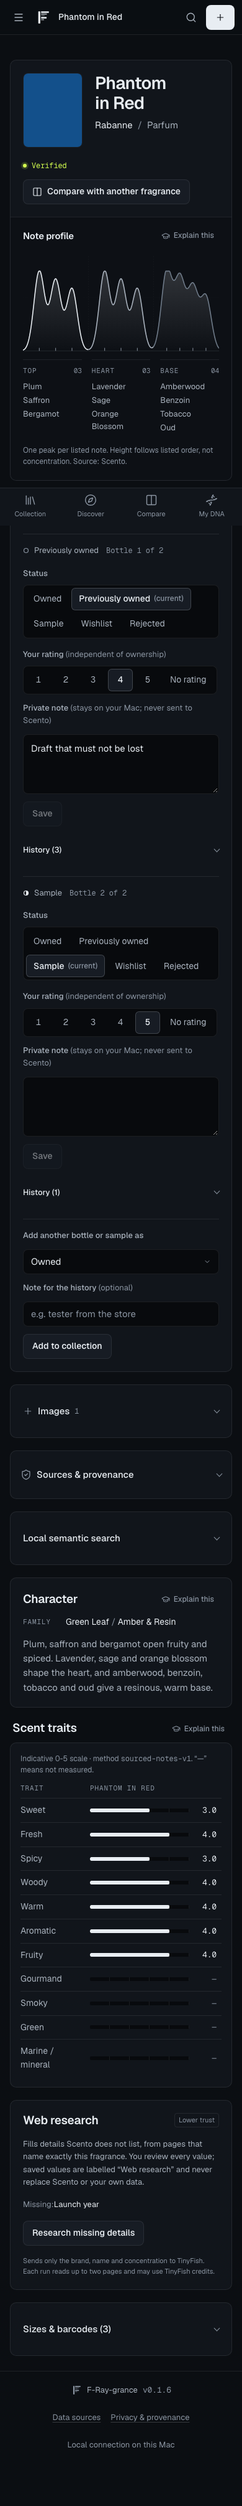
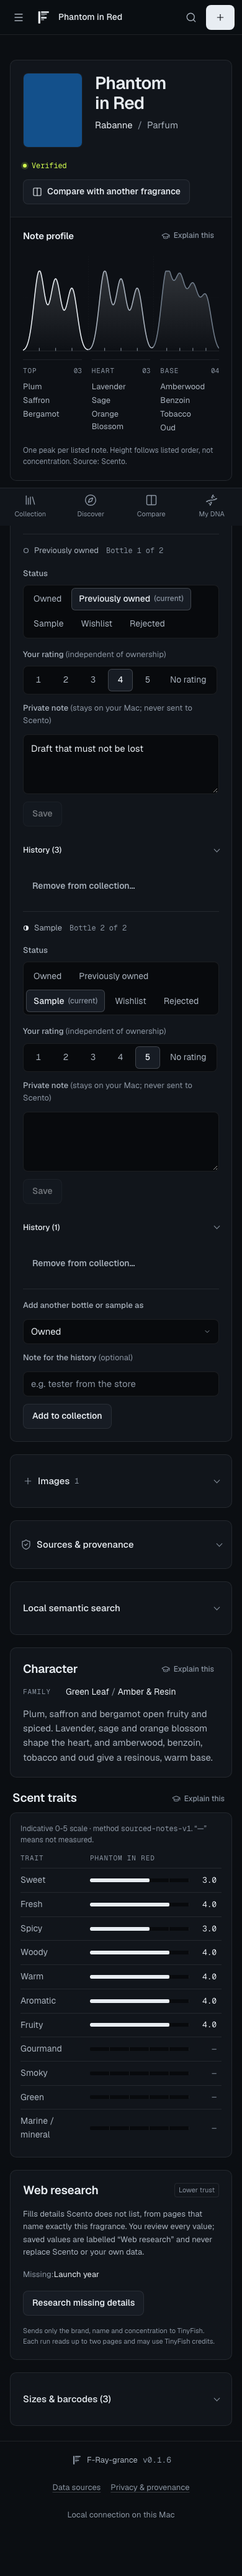
fray: remove a perfume from the collection (previewed, confirmed, logged)

diff --git a/apps/api/test/removal.test.ts b/apps/api/test/removal.test.ts
@@ -1,0 +1,82 @@
+// Owner-requested permanent removal of a collection entry: previewed, confirmed, logged; history
+// stays append-only for every other path.
+import { afterAll, beforeAll, describe, expect, it } from 'vitest';
+import type { FastifyInstance } from 'fastify';
+import { buildApp } from '../src/app.js';
+import { createSession, CSRF_COOKIE, SESSION_COOKIE } from '../src/security/sessions.js';
+import { createFragrance, upsertBrand } from '../src/repo/catalog.js';
+import { createEntry, transitionEntry } from '../src/repo/collection.js';
+import type { RotatingPool } from '../src/db/pool.js';
+import { EXPECTED_SCHEMA_VERSION, runtimePool, seedOwner, sessionKey, testConfig, uniq } from './helpers.js';
+
+describe('collection entry removal', () => {
+  let app: FastifyInstance;
+  let rp: RotatingPool;
+  const { key } = sessionKey();
+  let owner: string;
+  let other: string;
+  let H: Record<string, string>;
+  let O: Record<string, string>;
+  let frag: string;
+  const headersFor = async (o: string) => {
+    const s = await createSession(rp.get(), key, o, 1);
+    return { cookie: `${SESSION_COOKIE}=${s.token}; ${CSRF_COOKIE}=${s.csrfToken}`, origin: 'http://localhost:8470', 'x-csrf-token': s.csrfToken };
+  };
+
+  beforeAll(async () => {
+    rp = await runtimePool();
+    app = await buildApp({ config: testConfig(), pool: rp, key, expectedSchemaVersion: EXPECTED_SCHEMA_VERSION, logger: false });
+    owner = await seedOwner(rp.get());
+    other = await seedOwner(rp.get());
+    H = await headersFor(owner);
+    O = await headersFor(other);
+    const brand = await upsertBrand(rp.get(), uniq('Removal House'));
+    frag = await createFragrance(rp.get(), { brandId: brand, name: uniq('Mistake'), concentration: 'parfum', identityStatus: 'verified' });
+  });
+  afterAll(async () => {
+    await app.close();
+    await rp.close();
+  });
+
+  it('previews, requires confirmation, refuses other owners, then removes entry + history and logs counts only', async () => {
+    const e = await createEntry(rp.get(), owner, { fragranceId: frag, state: 'sampled', rating: 4, personalNote: 'private words' });
+    await transitionEntry(rp.get(), owner, e.id, 'owned', 'bought it');
+    const keep = await createEntry(rp.get(), owner, { fragranceId: frag, state: 'wishlist' }); // another bottle stays
+    const ex = (await rp.get().query("INSERT INTO app.training_exercises (owner_id, entry_id, title) VALUES ($1, $2, 'blotter') RETURNING id", [owner, e.id])).rows[0].id;
+
+    const preview = await app.inject({ method: 'GET', url: `/api/v1/collection/${e.id}/removal-preview`, headers: H });
+    expect(preview.json()).toEqual({ state: 'owned', events: 2, hasRating: true, hasNote: true, practice: 1 });
+    expect((await app.inject({ method: 'GET', url: `/api/v1/collection/${e.id}/removal-preview`, headers: O })).statusCode).toBe(404);
+    expect((await app.inject({ method: 'DELETE', url: `/api/v1/collection/${e.id}`, headers: H, payload: {} })).statusCode).toBe(400);
+    expect((await app.inject({ method: 'DELETE', url: `/api/v1/collection/${e.id}`, headers: O, payload: { confirm: 'REMOVE' } })).statusCode).toBe(404);
+    expect((await app.inject({ method: 'DELETE', url: `/api/v1/collection/${e.id}`, headers: { cookie: H.cookie!, origin: H.origin! }, payload: { confirm: 'REMOVE' } })).statusCode).toBe(403); // CSRF
+
+    const del = await app.inject({ method: 'DELETE', url: `/api/v1/collection/${e.id}`, headers: H, payload: { confirm: 'REMOVE' } });
+    expect(del.json()).toEqual({ removed: true, summary: { state: 'owned', events: 2, hasRating: true, hasNote: true, practice: 1 } });
+    const q = (sql: string, args: unknown[]) => rp.get().query(sql, args).then((r) => r.rows);
+    expect(await q('SELECT 1 FROM app.collection_entries WHERE id = $1', [e.id])).toEqual([]);
+    expect(await q('SELECT 1 FROM app.collection_events WHERE entry_id = $1', [e.id])).toEqual([]);
+    expect(await q('SELECT entry_id FROM app.training_exercises WHERE id = $1', [ex])).toEqual([{ entry_id: null }]); // kept as generic practice
+    expect((await q('SELECT 1 FROM app.collection_entries WHERE id = $1', [keep.id])).length).toBe(1);
+    const log = await q('SELECT kind, fragrance_id, subject_id, summary FROM app.deletion_log WHERE owner_id = $1', [owner]);
+    expect(log).toEqual([{ kind: 'collection_entry', fragrance_id: frag, subject_id: e.id, summary: { state: 'owned', events: 2, hasRating: true, hasNote: true, practice: 1 } }]);
+    expect(JSON.stringify(log)).not.toContain('private words');
+    expect((await app.inject({ method: 'DELETE', url: `/api/v1/collection/${e.id}`, headers: H, payload: { confirm: 'REMOVE' } })).statusCode).toBe(404);
+  });
+
+  it('history stays append-only for the runtime login, even if it sets the exemption itself', async () => {
+    const e = await createEntry(rp.get(), owner, { fragranceId: frag, state: 'owned' });
+    await expect(rp.get().query('DELETE FROM app.collection_events WHERE entry_id = $1', [e.id])).rejects.toThrow(/append-only/);
+    const c = await rp.get().connect();
+    try {
+      await c.query('BEGIN');
+      await c.query("SELECT set_config('fray.removing_entry', $1, true)", [e.id]);
+      await expect(c.query('DELETE FROM app.collection_events WHERE entry_id = $1', [e.id])).rejects.toThrow(/append-only/);
+      await c.query('ROLLBACK');
+    } finally {
+      c.release();
+    }
+    await expect(rp.get().query("INSERT INTO app.deletion_log (owner_id, kind, subject_id, summary) VALUES ($1, 'collection_entry', $1, '{}')", [owner])).rejects.toThrow(/permission denied/);
+    expect((await rp.get().query('SELECT count(*)::int AS n FROM app.collection_events WHERE entry_id = $1', [e.id])).rows[0].n).toBe(1);
+  });
+});

diff --git a/apps/web/app/components/collection/RemoveEntry.vue b/apps/web/app/components/collection/RemoveEntry.vue
@@ -1,0 +1,65 @@
+<script setup lang="ts">
+// Permanent removal of one collection entry: preview first (what goes, what stays), then an
+// explicit "Remove permanently". Suggests "Previously owned" when history should be kept.
+import type { CollectionEntry } from '~~/shared/types';
+import { STATE_LABEL } from '~~/shared/types';
+
+const props = defineProps<{ entry: CollectionEntry; name: string }>();
+const emit = defineEmits<{ removed: [] }>();
+interface Preview { state: keyof typeof STATE_LABEL; events: number; hasRating: boolean; hasNote: boolean; practice: number }
+const preview = ref<Preview | null>(null);
+const busy = ref(false);
+const message = ref('');
+
+async function open() {
+  message.value = '';
+  try {
+    preview.value = await apiFetch<Preview>(`/api/v1/collection/${props.entry.id}/removal-preview`);
+    await nextTick();
+    document.getElementById(`remove-${props.entry.id}`)?.focus();
+  } catch (e) {
+    message.value = e instanceof ApiFailure ? e.message : 'Could not prepare the removal.';
+  }
+}
+async function remove() {
+  busy.value = true;
+  try {
+    await apiFetch(`/api/v1/collection/${props.entry.id}`, { method: 'DELETE', body: { confirm: 'REMOVE' } });
+    preview.value = null;
+    emit('removed');
+  } catch (e) {
+    message.value = e instanceof ApiFailure ? `Not removed: ${e.message}` : 'Not removed.';
+  } finally {
+    busy.value = false;
+  }
+}
+const goes = computed(() => {
+  const p = preview.value;
+  if (!p) return [];
+  return [
+    `this ${STATE_LABEL[p.state].toLowerCase()} entry`,
+    `its status history (${p.events} ${p.events === 1 ? 'change' : 'changes'})`,
+    ...(p.hasRating ? ['your rating'] : []),
+    ...(p.hasNote ? ['your private note'] : []),
+  ];
+});
+</script>
+
+<template>
+  <div class="flex flex-col gap-2">
+    <button v-if="!preview" type="button" class="btn btn-ghost h-8 min-h-0 self-start px-2.5 text-[13px] text-ink-3 hover:text-bad" @click="open">Remove from collection…</button>
+    <div v-else :id="`remove-${entry.id}`" tabindex="-1" role="group" :aria-label="`Remove ${name} from your collection`" class="flex flex-col gap-3 rounded-control border border-bad/60 p-3 focus:outline-none" data-testid="remove-preview">
+      <p class="m-0 text-[14px] font-medium">Remove {{ name }} permanently?</p>
+      <p class="m-0 text-[13px] text-ink-2">This deletes {{ goes.join(', ') }}. It cannot be undone, except by restoring a backup.</p>
+      <p class="m-0 text-[13px] text-ink-2">
+        Stays: the fragrance in your library, its images and season choices<template v-if="preview.practice">, and {{ preview.practice }} practice {{ preview.practice === 1 ? 'exercise' : 'exercises' }} (kept as generic blotter practice)</template>.
+      </p>
+      <p v-if="preview.state === 'owned'" class="m-0 text-[12px] text-ink-3">Sold it or gave it away? Choose “Previously owned” above instead to keep its history.</p>
+      <div class="flex flex-wrap gap-2">
+        <button type="button" class="btn btn-quiet text-bad" :disabled="busy" @click="remove">{{ busy ? 'Removing…' : 'Remove permanently' }}</button>
+        <button type="button" class="btn btn-ghost" :disabled="busy" @click="preview = null">Cancel</button>
+      </div>
+    </div>
+    <p v-if="message" role="status" class="m-0 text-[13px] text-bad">{{ message }}</p>
+  </div>
+</template>

diff --git a/apps/web/e2e/removal.spec.ts b/apps/web/e2e/removal.spec.ts
@@ -1,0 +1,36 @@
+// Removing a fragrance from the collection: previewed, cancellable, then permanent; the fragrance
+// itself stays in the library.
+import { test, expect } from '@playwright/test';
+import { axe, login } from './helpers';
+
+test('remove a collection entry: preview, cancel, then remove permanently', async ({ page }) => {
+  await page.setViewportSize({ width: 1280, height: 900 });
+  await login(page);
+  const csrf = (await page.context().cookies()).find((c) => c.name === '__Host-fray_csrf')!.value;
+  const catalog = await (await page.request.get('/api/v1/fragrances?limit=100')).json();
+  const layton = catalog.items.find((x: { canonical_name: string }) => x.canonical_name === 'Layton');
+  const created = await page.request.post('/api/v1/collection', {
+    headers: { origin: 'http://localhost:8470', 'x-csrf-token': csrf },
+    data: { fragranceId: layton.id, state: 'wishlist', clientRequestId: crypto.randomUUID() },
+  });
+  expect(created.ok()).toBe(true);
+  const entryId = (await created.json()).entry.id;
+  await page.goto(`/fragrances/${layton.id}`);
+  const before = (await (await page.request.get(`/api/v1/fragrances/${layton.id}/relationship`)).json()).entries.length;
+  const entries = page.getByRole('region', { name: 'Your collection' }).getByRole('article');
+  const target = entries.filter({ hasText: 'Wishlist' }).last();
+  await target.getByRole('button', { name: 'Remove from collection…' }).click();
+  const preview = target.getByTestId('remove-preview');
+  await expect(preview).toContainText('Remove Layton permanently?');
+  await expect(preview).toContainText('status history');
+  await axe(page, 'removal preview');
+  await preview.getByRole('button', { name: 'Cancel' }).click();
+  await expect(target.getByTestId('remove-preview')).toHaveCount(0);
+  await target.getByRole('button', { name: 'Remove from collection…' }).click();
+  await target.getByTestId('remove-preview').getByRole('button', { name: 'Remove permanently' }).click();
+  await expect(page.getByText('Removed from your collection. The fragrance stays in your library.')).toBeVisible();
+  const after = (await (await page.request.get(`/api/v1/fragrances/${layton.id}/relationship`)).json()).entries;
+  expect(after.length).toBe(before - 1);
+  expect(after.some((e: { id: string }) => e.id === entryId)).toBe(false);
+  await expect(page.getByRole('heading', { level: 1, name: 'Layton' })).toBeVisible(); // still in the library
+});

diff --git a/apps/web/app/pages/fragrances/[id].vue b/apps/web/app/pages/fragrances/[id].vue
@@ -25,6 +25,11 @@ function onUpdated(e: CollectionEntry) {
 async function onAdded() {
   await loadRelationship();
 }
+const removedNote = ref('');
+async function onRemoved() {
+  await loadRelationship();
+  removedNote.value = 'Removed from your collection. The fragrance stays in your library.';
+}
 async function load() {
   error.value = null;
   try {
@@ -143,6 +148,7 @@ const subfamily = computed(() => data.value?.fields.subfamily?.value as string |
         <div class="order-first flex min-w-0 flex-col gap-5 xl:order-none">
           <GlassPanel id="relationship" variant="solid" as="section" class="flex scroll-mt-24 flex-col gap-5 p-5" aria-labelledby="rel-h">
             <h2 id="rel-h">Your collection</h2>
+            <p v-if="removedNote" role="status" class="m-0 text-[13px] text-ink-2">{{ removedNote }}</p>
             <p v-if="!entries.length" class="m-0 text-ink-2">Not in your collection yet.</p>
             <article v-for="(e, i) in entries" :key="e.id" class="flex flex-col gap-4 border-t border-line pt-4 first:border-0 first:pt-0" :aria-label="`Collection entry ${i + 1}`">
               <div class="flex flex-wrap items-center gap-3">
@@ -155,6 +161,7 @@ const subfamily = computed(() => data.value?.fields.subfamily?.value as string |
                 <summary class="tap flex cursor-pointer items-center text-[13px] font-medium">History ({{ e.history.length }})</summary>
                 <div class="mt-2"><CollectionHistoryTimeline :events="e.history" /></div>
               </details>
+              <CollectionRemoveEntry :entry="e" :name="data.fragrance.canonical_name" @removed="onRemoved" />
             </article>
             <div class="border-t border-line pt-4">
               <CollectionAddToCollection :fragrance-id="data.fragrance.id" :label="entries.length ? 'Add another bottle or sample as' : 'Add to collection as'" @added="onAdded" />

diff --git a/apps/api/src/routes/v1/collection.ts b/apps/api/src/routes/v1/collection.ts
@@ -152,6 +152,28 @@ export async function collectionRoutes(base: FastifyInstance, deps: { pool: Rota
     return { entries: withHistory, variants: variants.rows };
   });
 
+  // Permanent removal (DATA_PERSISTENCE: explicit, previewed and logged). Preview first; the removal
+  // itself needs confirm: "REMOVE". Another owner's entry behaves as missing.
+  app.get('/collection/:id/removal-preview', { schema: { params: Type.Object({ id: Uuid }, { additionalProperties: false }) } }, async (req) => {
+    const { rows } = await db().query<{ p: Record<string, unknown> | null }>('SELECT app.collection_entry_removal_preview($1, $2) AS p', [req.session!.owner.id, req.params.id]);
+    if (!rows[0]?.p) throw new ApiError('NOT_FOUND', 'Collection entry not found');
+    return rows[0].p;
+  });
+
+  app.delete(
+    '/collection/:id',
+    {
+      config: { rateLimit: { max: 20, timeWindow: '1 minute' } },
+      schema: { params: Type.Object({ id: Uuid }, { additionalProperties: false }), body: Type.Object({ confirm: Type.Literal('REMOVE') }, { additionalProperties: false }) },
+    },
+    async (req) => {
+      const { rows } = await db().query<{ r: Record<string, unknown> | null }>('SELECT app.remove_collection_entry($1, $2) AS r', [req.session!.owner.id, req.params.id]);
+      if (!rows[0]?.r) throw new ApiError('NOT_FOUND', 'Collection entry not found');
+      req.log.info({ entryId: req.params.id }, 'collection entry removed by owner');
+      return { removed: true, summary: rows[0].r };
+    },
+  );
+
   /** Record a package size / barcode for a fragrance. Owner-confirmed barcodes become verified mappings. */
   app.post(
     '/fragrances/:id/variants',

diff --git a/CHANGELOG.md b/CHANGELOG.md
@@ -10,6 +10,7 @@ Build phases follow [`spec/PHASE_MANIFEST.md`](spec/PHASE_MANIFEST.md); evidence
 
 ### Added
 
+- **Remove from collection:** on a fragrance's page, each collection entry can be removed permanently. It shows a preview first: what goes (entry, status history, rating, note) and what stays (the fragrance, images, season choices; linked practice becomes generic). Then it needs an explicit confirmation, and the removal is logged with counts only. Migration `0007` adds `app.remove_collection_entry()` and `app.deletion_log`. History stays append-only on every other path.
 - **Phase 13: My Spectrum** ([ADR-014](docs/adr/ADR-014-my-spectrum.md)). Shows where the fragrances you own sit on Fresh ↔ Warm and Dry ↔ Sweet, with a trait readout and a family breakdown, computed from the existing indicative traits. Coverage is stated, unknown stays unknown, and it describes the collection rather than what you like.
 - **Quick find in Discover:** one box for a name, part of a name, a brand, or a barcode (EAN/UPC), like ISBN for books. A barcode is checked against your verified barcodes first, then Open Beauty Facts (or a web search) for the product title; that title is cleaned into a Scento search. Similar names are never substituted. The barcode is saved to the fragrance you add, so scanning it again finds it straight away.
 - **Web research and image lookups** ([ADR-013](docs/adr/ADR-013-web-research-and-image-lookup.md)):
